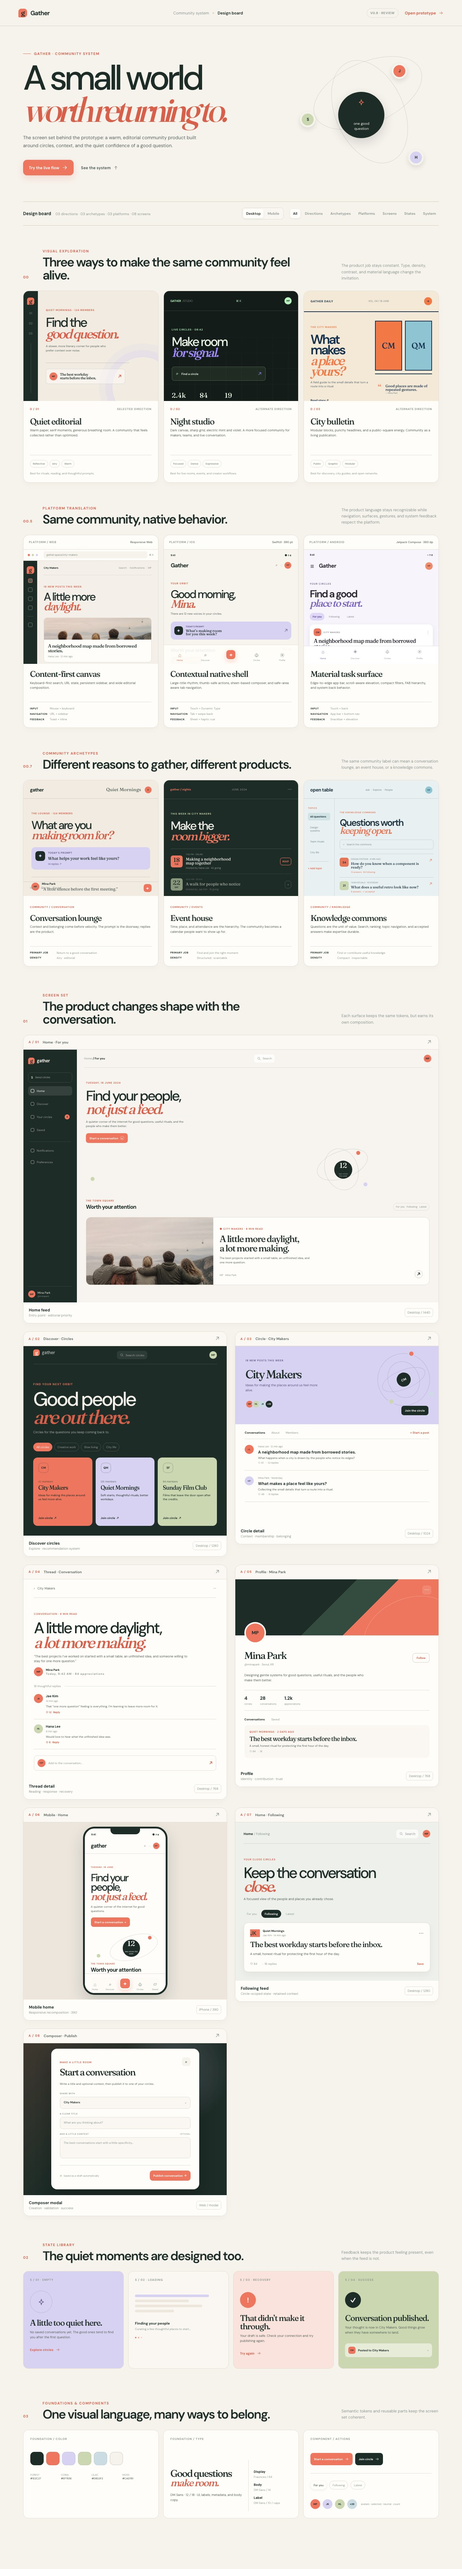
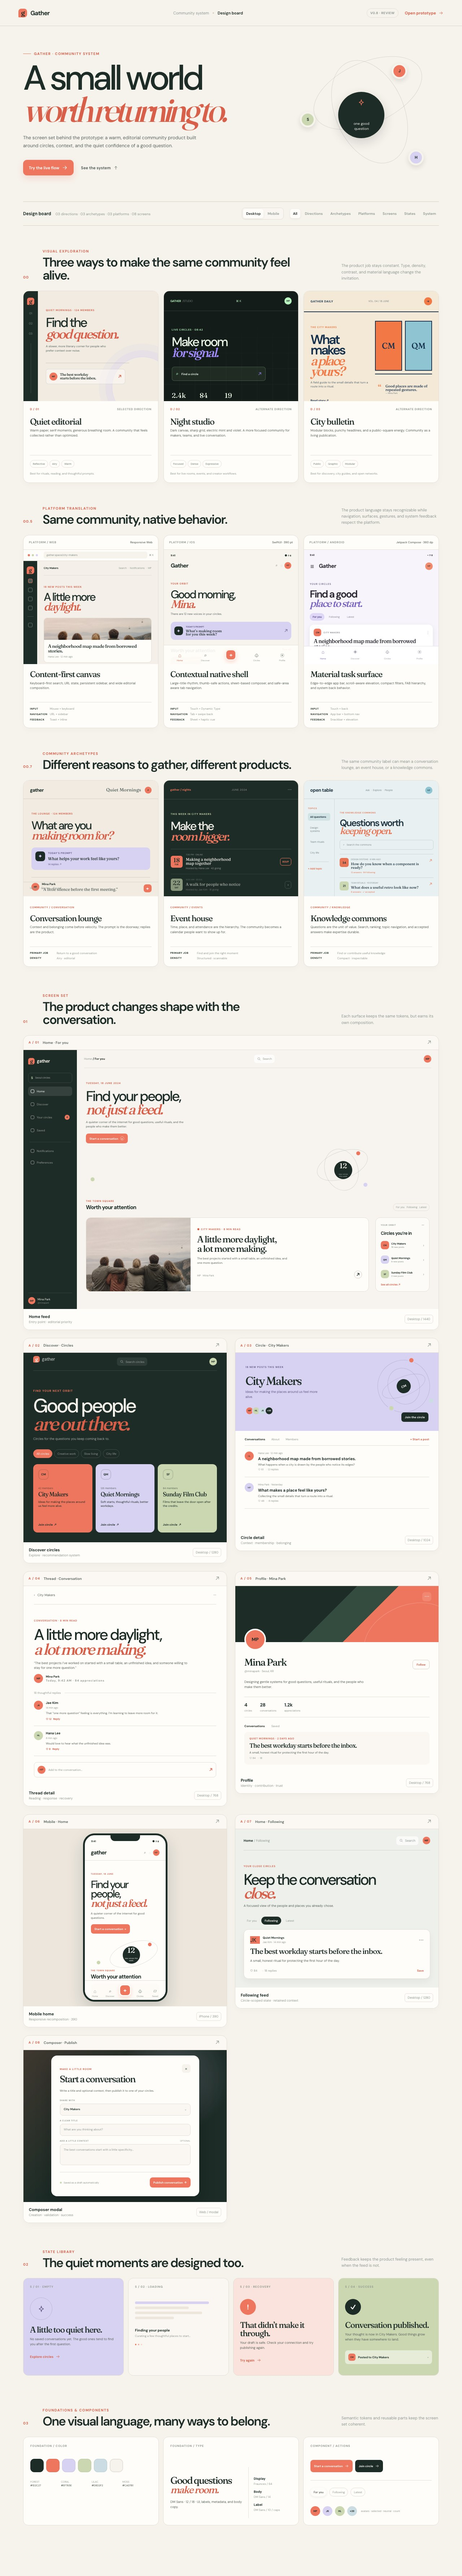
feat: align design board with production home rail

diff --git a/examples/community/board.css b/examples/community/board.css
@@ -183,6 +183,23 @@ button:focus-visible, a:focus-visible { outline: 3px solid rgba(239,118,94,.4); 
 .mini-orbit { position: relative; height: 112px; }.mini-orbit:before, .mini-orbit:after { position: absolute; content: ""; border: 1px solid rgba(29,44,39,.15); border-radius: 50%; transform: rotate(-20deg); }.mini-orbit:before { top: 4px; right: 0; width: 145px; height: 74px; }.mini-orbit:after { top: -4px; right: 30px; width: 90px; height: 116px; }.mini-orbit span { position: absolute; top: 31px; right: 46px; display: grid; place-items: center; width: 50px; height: 50px; border-radius: 50%; background: var(--forest); color: var(--paper); font-family: var(--serif); font-size: 20px; line-height: .8; }.mini-orbit span small { margin-top: 4px; color: rgba(255,255,255,.65); font-family: var(--sans); font-size: 5px; line-height: 1.2; text-align: center; }.mini-orbit i { position: absolute; z-index: 1; width: 15px; height: 15px; border: 2px solid #f7f4ef; border-radius: 50%; }.mini-orbit i:nth-child(1) { top: 2px; right: 22px; background: var(--coral); }.mini-orbit i:nth-child(2) { top: 74px; left: 11px; background: var(--moss); }.mini-orbit i:nth-child(3) { right: 2px; bottom: 8px; background: var(--lilac); }
 .mini-section-head { display: flex; align-items: flex-end; justify-content: space-between; grid-column: span 2; padding-top: 7px; }.mini-section-head span { display: grid; gap: 3px; }.mini-section-head span b { color: var(--forest); font-size: 15px; letter-spacing: -.05em; }.mini-section-head em { padding: 5px 7px; border: 1px solid var(--line); border-radius: 999px; color: var(--ink-faint); font-size: 7px; font-style: normal; }.mini-feature { display: grid; grid-template-columns: 37% 1fr; grid-column: span 2; min-height: 145px; overflow: hidden; border: 1px solid var(--line); border-radius: 13px; background: var(--surface); }.mini-feature-image { min-height: 145px; background: linear-gradient(145deg, rgba(239,118,94,.15), rgba(29,44,39,.15)), url('./assets/editorial/group-overlook.jpg') center/cover; filter: saturate(.7); }.mini-feature > div:last-child { padding: 18px; }.mini-feature h4 { max-width: 230px; margin: 8px 0; color: var(--forest); font-family: var(--serif); font-size: clamp(17px, 2.5vw, 25px); font-weight: 500; letter-spacing: -.06em; line-height: 1.02; }.mini-feature p { max-width: 260px; margin: 0 0 16px; color: var(--ink-soft); font-size: 8px; line-height: 1.5; }.mini-feature > div:last-child > span { color: var(--ink-faint); font-size: 7px; }.mini-feature > div:last-child > span b { float: right; display: grid; place-items: center; width: 22px; height: 22px; border: 1px solid var(--line-strong); border-radius: 50%; color: var(--ink); font-size: 12px; }
 
+/* The board home preview keeps the same desktop information split as the live prototype. */
+.mini-feature { grid-column: 1; }
+.mini-rail { grid-column: 2; min-width: 0; }
+.mini-rail-card { display: grid; gap: 9px; padding: 14px; border: 1px solid var(--line); border-radius: 13px; background: rgba(255,253,249,.72); }
+.mini-rail-heading { display: flex; align-items: center; justify-content: space-between; color: var(--ink-faint); }
+.mini-rail-heading small { font-size: 6px; font-weight: 700; letter-spacing: .12em; }
+.mini-rail-heading b { font-size: 9px; font-weight: 700; }
+.mini-rail-card > strong { color: var(--forest); font-size: 12px; letter-spacing: -.04em; }
+.mini-circle-row { display: flex; align-items: center; gap: 6px; min-width: 0; padding: 4px 0; }
+.mini-circle-row > span { display: grid; place-items: center; width: 23px; height: 23px; flex: 0 0 auto; border-radius: 8px; background: var(--coral); color: var(--forest); font-size: 6px; font-weight: 700; }
+.mini-circle-row:nth-of-type(3) > span { background: var(--lilac); }
+.mini-circle-row:nth-of-type(4) > span { background: var(--moss); }
+.mini-circle-row > b { display: grid; flex: 1; gap: 1px; min-width: 0; overflow: hidden; color: var(--forest); font-size: 7px; text-overflow: ellipsis; white-space: nowrap; }
+.mini-circle-row > b small { color: var(--ink-faint); font-size: 6px; font-weight: 500; }
+.mini-circle-row > i { color: var(--ink-faint); font-size: 11px; font-style: normal; }
+.mini-rail-card > em { color: var(--coral-deep); font-size: 7px; font-style: normal; font-weight: 700; }
+
 /* miniature Discover screen */
 .canvas-discover { min-height: 490px; padding: 0 27px 27px; background: var(--forest); color: var(--paper); }.mini-topbar.dark { border-bottom-color: rgba(255,255,255,.13); color: rgba(255,255,255,.55); }.mini-topbar.dark b { color: var(--paper); }.mini-search.light { background: rgba(255,255,255,.08); color: rgba(255,255,255,.52); }.light-avatar { background: var(--moss); }.discover-copy { padding: 42px 0 23px; }.discover-copy small { color: var(--coral); font-size: 8px; font-weight: 700; letter-spacing: .13em; }.discover-copy h3 { margin: 10px 0; font-size: clamp(32px, 5vw, 54px); font-weight: 500; letter-spacing: -.08em; line-height: .9; }.discover-copy p { margin: 0; color: rgba(255,255,255,.6); font-size: 9px; }.discover-tags { display: flex; gap: 5px; margin-bottom: 17px; }.discover-tags span { padding: 6px 8px; border: 1px solid rgba(255,255,255,.16); border-radius: 999px; color: rgba(255,255,255,.52); font-size: 8px; }.discover-tags span.selected { border-color: var(--coral); background: var(--coral); color: white; }.discover-cards { display: grid; grid-template-columns: repeat(3, 1fr); gap: 9px; }.circle-tile { min-height: 187px; padding: 14px; border-radius: 12px; color: var(--forest); }.circle-tile > span { display: grid; place-items: center; width: 29px; height: 29px; margin-bottom: 19px; border: 2px solid rgba(29,44,39,.15); border-radius: 10px; font-size: 8px; font-weight: 700; }.circle-tile small { display: block; margin-bottom: 5px; font-size: 7px; opacity: .64; }.circle-tile strong { display: block; font-family: var(--serif); font-size: 16px; font-weight: 500; letter-spacing: -.05em; line-height: .95; }.circle-tile p { min-height: 39px; margin: 8px 0 16px; font-size: 8px; line-height: 1.35; }.circle-tile > b { font-size: 8px; }.coral-tile { background: var(--coral); }.lilac-tile { background: var(--lilac); }.moss-tile { background: var(--moss); }
 
@@ -218,6 +235,10 @@ button:focus-visible, a:focus-visible { outline: 3px solid rgba(239,118,94,.4); 
 }
 @media (max-width: 420px) {
   .board-header { padding-right: 14px; padding-left: 14px; }.board-brand { font-size: 15px; }.open-prototype { font-size: 9px; }.board-intro h1 { font-size: 56px; }.intro-actions { align-items: flex-start; flex-direction: column; gap: 12px; }.section-marker h2 { font-size: 24px; }.artboard-caption { align-items: flex-start; flex-direction: column; gap: 8px; }.canvas-home { min-height: 470px; }.mini-home { padding-right: 15px; padding-left: 15px; }.mini-feature { grid-template-columns: 38% 1fr; }.mini-feature > div:last-child { padding: 12px; }.mini-feature h4 { font-size: 18px; }.canvas-circle, .canvas-thread, .canvas-profile, .canvas-filtered, .canvas-composer { min-height: 475px; }.filtered-hero h3 { font-size: 32px; }.filtered-topbar { gap: 7px; }.filtered-topbar .mini-search { display: none; }.board-composer-card { padding: 19px; }.board-composer-head h3 { font-size: 23px; }.thread-title h3 { font-size: 30px; }.phone-frame { transform: scale(.82); }
+}
+@media (max-width: 720px) {
+  .mini-feature { grid-column: auto; }
+  .mini-rail { display: none; }
 }
 @media (max-width: 1060px) {
   .archetype-grid { grid-template-columns: repeat(2, minmax(0, 1fr)); }

diff --git a/examples/community/board.html b/examples/community/board.html
@@ -127,7 +127,7 @@
             <div class="artboard-meta"><span class="artboard-number">A / 01</span><span class="artboard-label">Home · For you</span><button type="button" class="zoom-button" aria-label="Open Home screen details" data-open-artboard="Home / For you">↗</button></div>
             <div class="artboard-canvas canvas-home">
               <div class="mini-sidebar"><span class="mini-brand"><b>g</b> gather</span><span class="mini-workspace">S <small>Seoul circles</small></span><div class="mini-nav active"><i></i>Home</div><div class="mini-nav"><i></i>Discover</div><div class="mini-nav"><i></i>Your circles <b>4</b></div><div class="mini-nav"><i></i>Saved</div><span class="mini-nav-rule"></span><div class="mini-nav muted"><i></i>Notifications</div><div class="mini-nav muted"><i></i>Preferences</div><div class="mini-profile"><b>MP</b><span>Mina Park<small>@minapark</small></span></div></div>
-              <div class="mini-home"><div class="mini-topbar"><span>Home <b>/ For you</b></span><span class="mini-search"><svg class="board-icon" aria-hidden="true"><use href="#board-search" /></svg> Search</span><b class="mini-avatar">MP</b></div><div class="mini-home-body"><div class="mini-hello"><small>TUESDAY, 18 JUNE 2024</small><h3>Find your people,<br /><em>not just a feed.</em></h3><p>A quieter corner of the internet for good questions, useful rituals, and the people who make them better.</p><button>Start a conversation <span>+</span></button></div><div class="mini-orbit"><i></i><i></i><i></i><span>12<small>new voices<br />this week</small></span></div><div class="mini-section-head"><span><small>THE TOWN SQUARE</small><b>Worth your attention</b></span><em>For you&nbsp;&nbsp; Following&nbsp;&nbsp; Latest</em></div><div class="mini-feature"><div class="mini-feature-image"></div><div><small>● CITY MAKERS · 8 MIN READ</small><h4>A little more daylight,<br />a lot more making.</h4><p>The best projects started with a small table, an unfinished idea, and one more question.</p><span>MP &nbsp; Mina Park <b>↗</b></span></div></div></div></div>
+              <div class="mini-home"><div class="mini-topbar"><span>Home <b>/ For you</b></span><span class="mini-search"><svg class="board-icon" aria-hidden="true"><use href="#board-search" /></svg> Search</span><b class="mini-avatar">MP</b></div><div class="mini-home-body"><div class="mini-hello"><small>TUESDAY, 18 JUNE 2024</small><h3>Find your people,<br /><em>not just a feed.</em></h3><p>A quieter corner of the internet for good questions, useful rituals, and the people who make them better.</p><button>Start a conversation <span>+</span></button></div><div class="mini-orbit"><i></i><i></i><i></i><span>12<small>new voices<br />this week</small></span></div><div class="mini-section-head"><span><small>THE TOWN SQUARE</small><b>Worth your attention</b></span><em>For you&nbsp;&nbsp; Following&nbsp;&nbsp; Latest</em></div><div class="mini-feature"><div class="mini-feature-image"></div><div><small>● CITY MAKERS · 8 MIN READ</small><h4>A little more daylight,<br />a lot more making.</h4><p>The best projects started with a small table, an unfinished idea, and one more question.</p><span>MP &nbsp; Mina Park <b>↗</b></span></div></div><aside class="mini-rail" aria-label="Your circles preview"><div class="mini-rail-card"><div class="mini-rail-heading"><small>YOUR ORBIT</small><b>···</b></div><strong>Circles you’re in</strong><div class="mini-circle-row"><span>CM</span><b>City Makers<small>18 new posts</small></b><i>›</i></div><div class="mini-circle-row"><span>QM</span><b>Quiet Mornings<small>6 new posts</small></b><i>›</i></div><div class="mini-circle-row"><span>SF</span><b>Sunday Film Club<small>2 new posts</small></b><i>›</i></div><em>See all circles ↗</em></div></aside></div></div>
             </div>
             <div class="artboard-caption"><div><strong>Home feed</strong><span>Entry point · editorial priority</span></div><span class="caption-chip">Desktop / 1440</span></div>
           </article>

diff --git a/design-qa.md b/design-qa.md
@@ -1,0 +1,56 @@
+# Design QA
+
+Date: 2026-08-21  
+Scope: Gather community example — `Home / For you`, desktop and mobile handoff
+
+## Comparison inputs
+
+The source and implementation were captured and reviewed together before judging fidelity.
+
+| Surface | Source visual | Implementation visual | Viewport / pixels | Density |
+| --- | --- | --- | --- | --- |
+| Desktop home fold | [`home-source.jpg`](examples/community/evidence/qa/home-source.jpg) | [`home-implementation.jpg`](examples/community/evidence/qa/home-implementation.jpg) | 1280 × 720 CSS px / 1280 × 720 px | 1× |
+| Desktop comparison | [`home-source-vs-implementation.png`](examples/community/evidence/qa/home-source-vs-implementation.png) | Same comparison input | 1280 × 720 CSS px per panel / 2584 × 768 composite px | 1× |
+| Mobile responsive set | [`board-390.jpg`](examples/community/evidence/board-390.jpg) | [`prototype-390.jpg`](examples/community/evidence/prototype-390.jpg) | 390 × 844 CSS px / full-page evidence | 1× |
+| Mobile comparison | [`mobile-source-vs-implementation.png`](examples/community/evidence/qa/mobile-source-vs-implementation.png) | Same comparison input | 390 × 844 CSS px viewport, full-page composite | 1× |
+
+The desktop source is the refreshed `A / 01 · Home / For you` artboard with its screen content aligned to the viewport. The mobile source is the responsive design board containing `A / 06 · Mobile / Home`; the implementation is the runnable prototype at the same mobile viewport.
+
+## Full-view comparison
+
+The source and implementation share the same editorial hierarchy: forest navigation rail, warm paper surface, coral action, serif emphasis, orbit motif, featured image, and feed filter. The source preview is intentionally denser than the live surface, but its information architecture now matches the implementation at the fold: the featured story occupies the main column and `Circles you’re in` occupies the right rail.
+
+## Focused comparison
+
+The focused desktop pass inspected the hero baseline, orbit artwork, feed heading/filter group, featured card split, image crop, and right rail. The focused mobile pass inspected the top bar, hero wrap, primary action, orbit, featured card, bottom navigation, and touch-target geometry. No overlap, clipping, broken wrapping, or hierarchy collapse was found in the reviewed states.
+
+## Findings and comparison history
+
+| ID | Severity | Surface | Initial finding | Resolution |
+| --- | --- | --- | --- | --- |
+| DQ-001 | P2 | Layout / handoff fidelity | The `Home / For you` board preview omitted the desktop circles rail and rendered the featured story full width, while the implementation used a main column plus `Circles you’re in` rail. This could cause contributors to reproduce a different desktop composition from the design board. | Resolved by adding the miniature rail to `examples/community/board.html` and matching the board grid in `examples/community/board.css`. Re-captured and re-reviewed after the change. |
+
+P0 findings: none.  
+P1 findings: none.  
+Remaining P2 findings: none.
+
+## Rubric pass
+
+- Typography: local fonts, weight hierarchy, serif display treatment, wrapping, and line-height remain coherent across source and implementation.
+- Spacing and layout: the desktop rail/feature split now matches the handoff; mobile composition stays single-column with bottom navigation.
+- Viewport resilience: browser QA passed at 1440 × 1000 and 390 × 844; no overlap or unusable collapse was observed.
+- Colors and tokens: forest, paper, coral, lilac, moss, borders, and surface treatments map consistently across the board and prototype.
+- Image quality and assets: the featured story uses the same local editorial asset and preserves its crop; no placeholder image replaces a designed asset.
+- Copy and content: source and implementation use the same product copy and state labels for the reviewed home surface.
+- Icons: board symbols and implementation SVG sprite icons are present, aligned, and stylistically consistent.
+- States and interactions: URL state, history restoration, composer focus return, drawer focus return, skip-link navigation, board state, and board dialog focus return passed runtime checks.
+- Accessibility: semantic controls, visible focus treatment, reduced-motion support, image alt text, and minimum 44 × 44 px mobile control geometry are covered by the example contract and runtime QA.
+- AI shortcut artifacts: no generic placeholder card, fake product image, or mismatched decorative surface was found in the reviewed home surface; the orbit treatment is a deliberate shared motif.
+
+## Verification
+
+- `npm run capture:community` — refreshed 6 evidence captures.
+- `npm run test:browser` — 11 / 11 runtime checks passed.
+- `npm run test:visual` — 3 / 3 targets passed with `mismatchRatio: 0`.
+
+final result: passed
